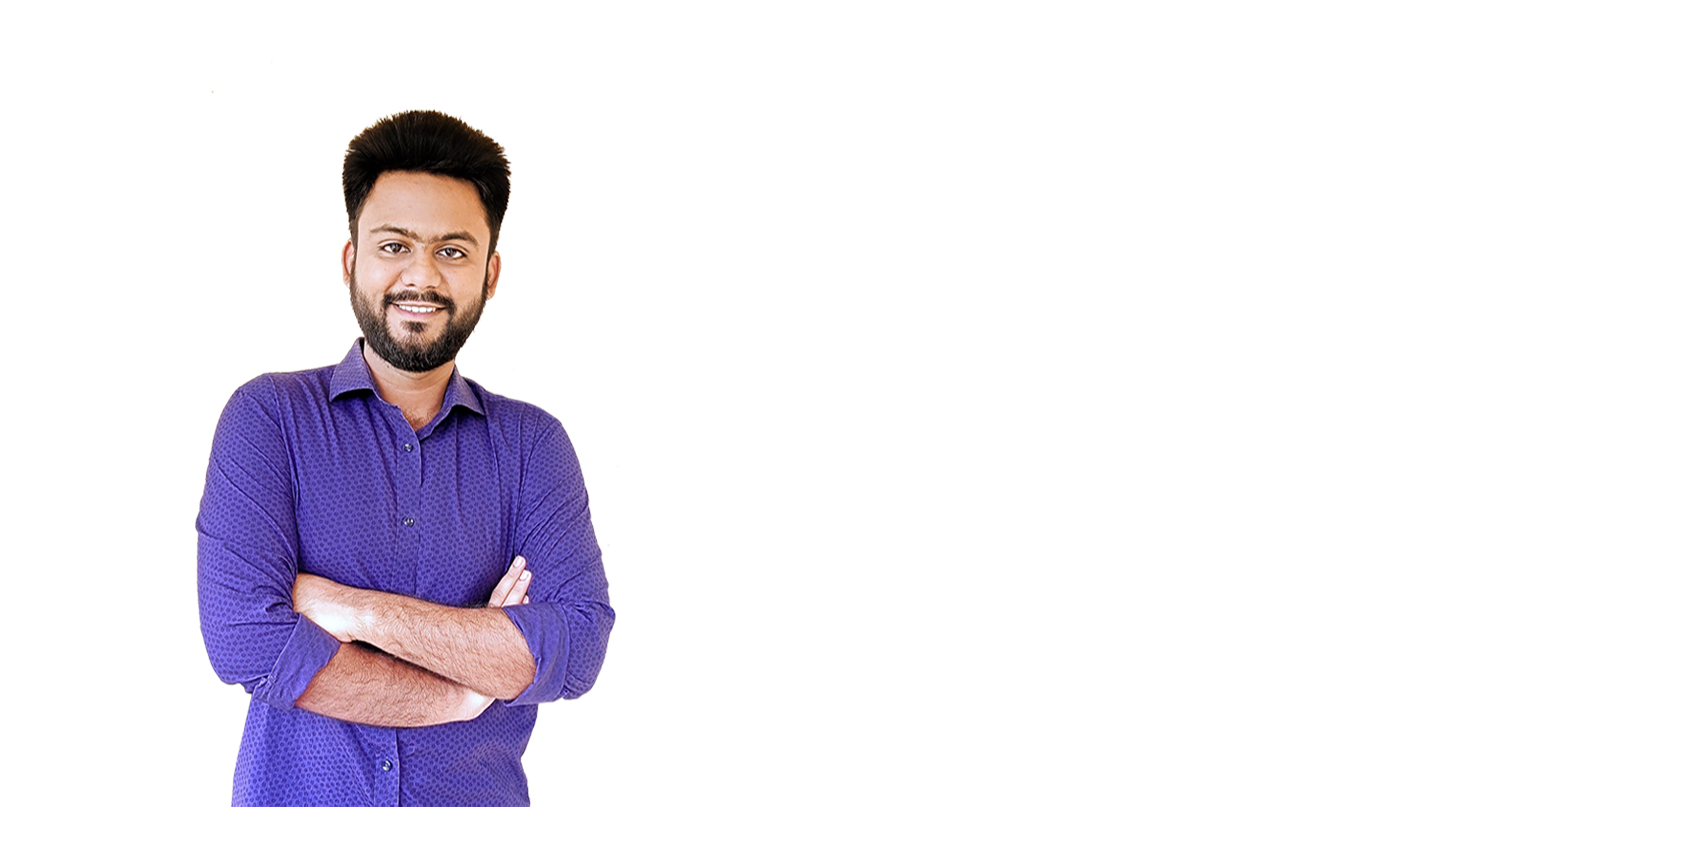
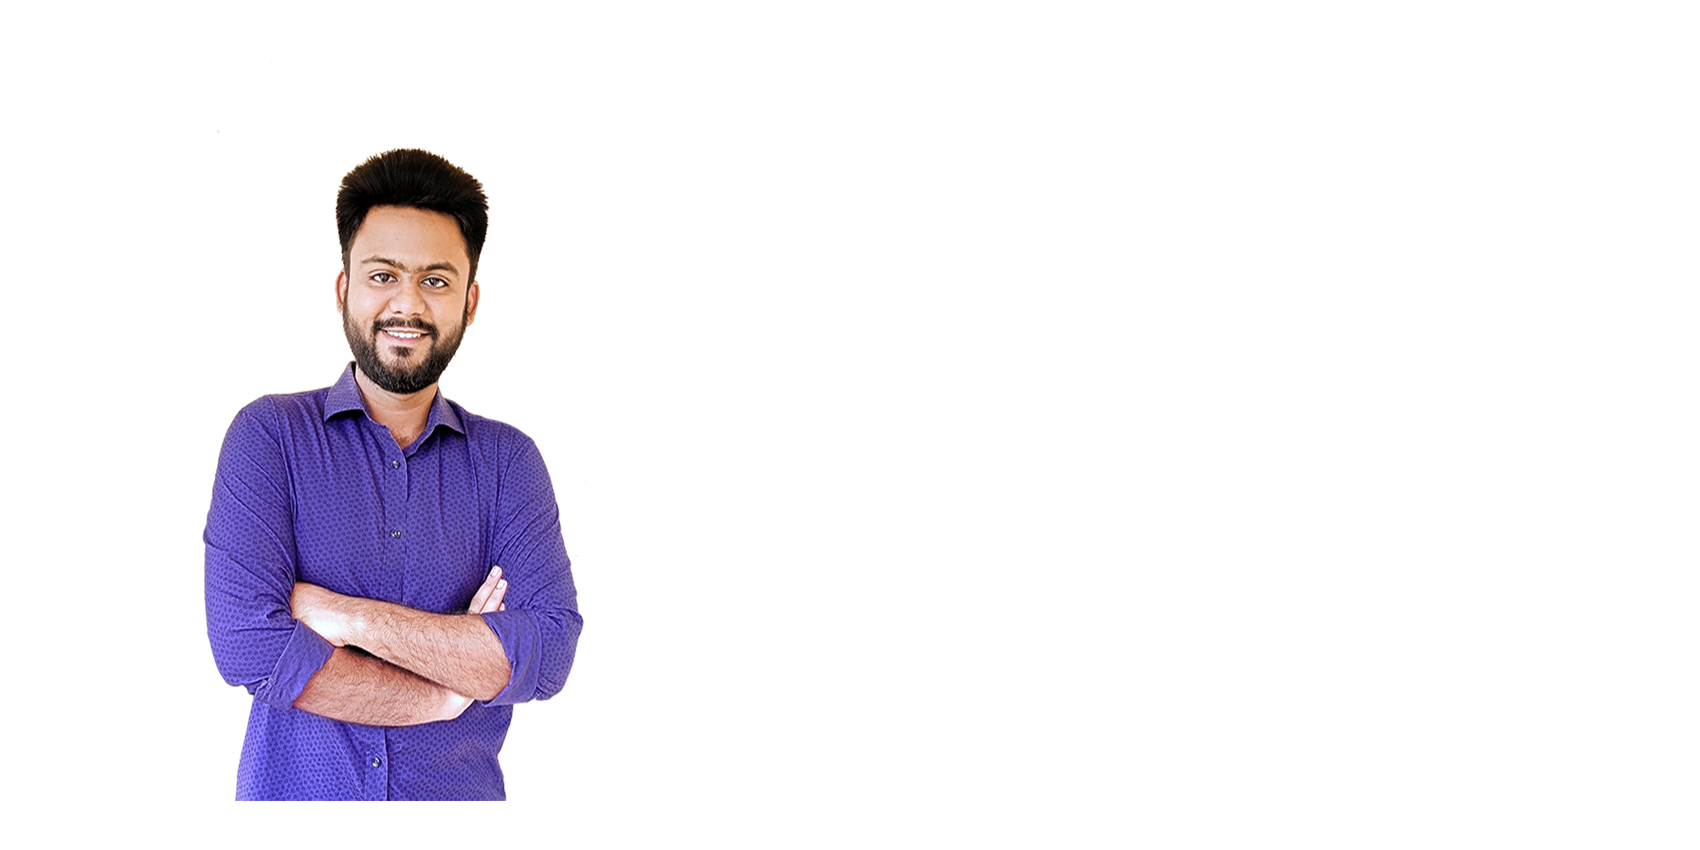
a

Changed region(s): [[0.0935, 0.1224, 0.3741, 0.9482]]

diff --git a/index.html b/index.html
@@ -282,16 +282,19 @@
 			<div class="row">
 				<div class="col-md-8 col-sm-8">
 					<h2 class="title">My <strong>Profile</strong></h2>
-					<p><span class="tm-info-label">Name</span> Mursalin Islam (ムルサリン　イスラム)</p>
+					<p><span class="tm-info-label">Name</span> Mursalin Islam (ムルサリンイスラム)</p>
 					<p><span class="tm-info-label">Birthday</span> August 10, 1995</p>
+					<p><span class="tm-info-label">Language</span> Bangla, English, 日本語、Hindi</p>
 					<p><span class="tm-info-label">Address</span> 77, Chorhash Sugar Mill Road, Jagoti-7002, Kushtia,
 						Bangladesh</p>
 					<p><span class="tm-info-label">Phone</span> +880 1571707773</p>
 					<p><span class="tm-info-label">Email</span> mursalinir@gmail.com</p>
+					<p><span class="tm-info-label">Skype</span> <a href="https://join.skype.com/invite/UcMzgDw5mt2V" >mursalin.islam1</a></p>
+					<a href="https://drive.google.com/file/d/1DAGaojSDD4JwnGsv5xeDI1biS3CFk18G/view?usp=sharing" target="_blank"> <button class="btn"><i class="fa fa-download"></i> Download CV</button></a>
 				</div>
 				<div class="iso-box wordpress col-md-3 col-sm-3 col-xs-12">
-					<div class="portfolio-thumb">
-						<img src="images/me.png" class="fluid-img" alt="portfolio img">
+					<div class="portfolio-thumb" style="margin-top: 100px;">
+						<img src="images/me.png" class="fluid-img" alt="portfolio img" >
 					</div>
 				</div>
 			</div>
